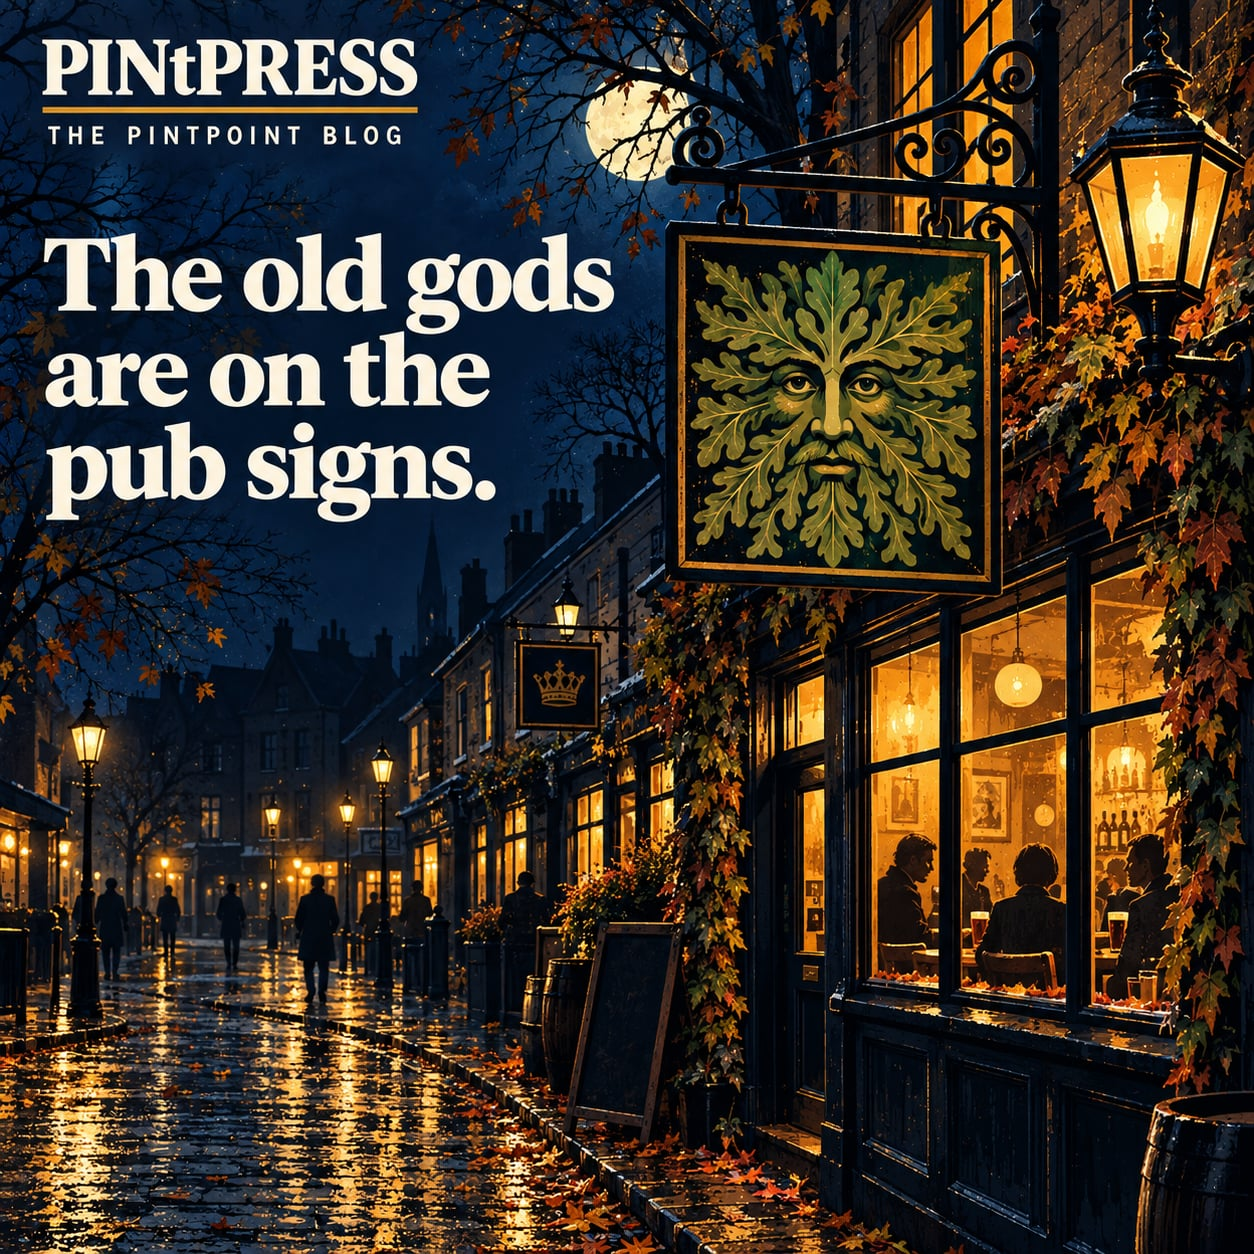
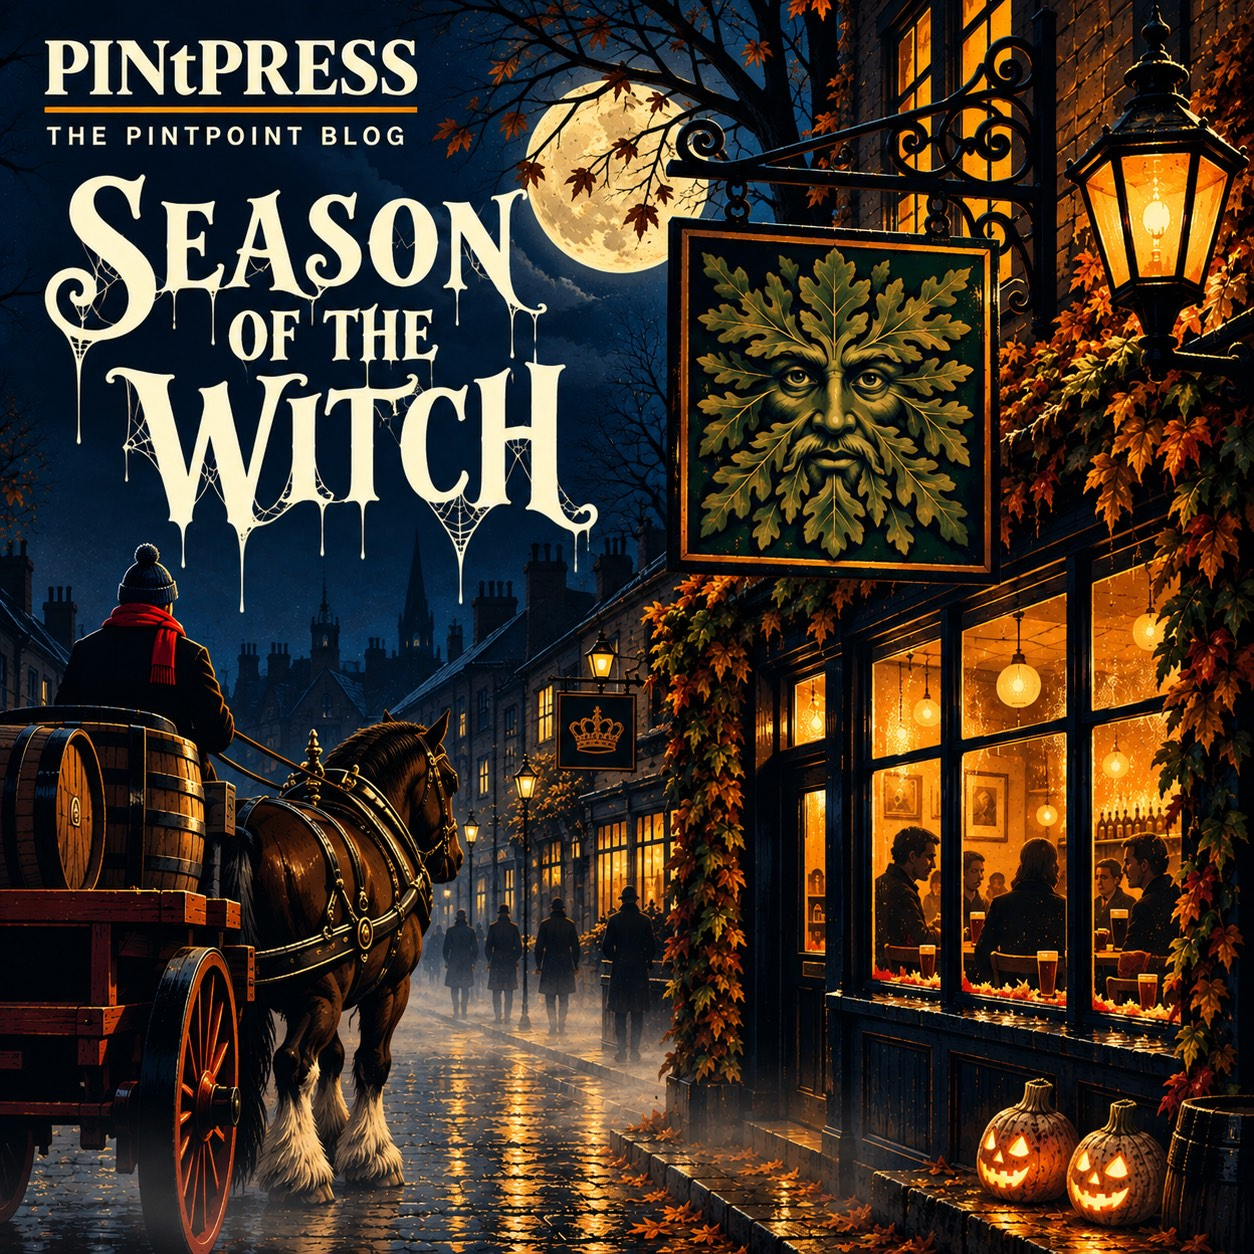
Season of the Witch cover: shipped, with two known trade-offs
Carries the new title, and it finally reads as 31 October rather than a
nice autumn evening: full moon, low mist on the cobbles, lit lanterns on
the step. Checked the horror typeface at 150px and it stays legible, so
the dripping face is not costing anything at thumbnail size.

Two deviations accepted rather than chased further, both known:

1. THE LANTERNS ARE PUMPKINS, NOT TURNIPS. Zoomed in to be sure: round,
   ribbed, pumpkin stalks. The essay's own jack-o'-lantern passage says
   the original was a turnip or a swede and that the pumpkin is what
   happened when the story reached America. So the cover leads with the
   cliche the piece then dismantles. Defensible as bait - the cover's job
   is to say Halloween, the essay's job is to complicate it - but it is a
   contradiction, and turnips would have been both truer and more
   distinctive.

2. THE DRAY IS STILL THERE. Same horse, driver, bobble hat and red scarf
   as the Christmas Ale cover, which publishes six days later and will
   sit beside it in the index. Three separate removal attempts have not
   shifted it.

Shipping because it is dramatically better than the live version on the
one axis that mattered, and the returns on further generations are
visibly diminishing - each round has traded one fault for another. Six
weeks remain before 31 October if either is worth another go.

Alt text updated in both places; it described the old cover.

1254x1254, 536KB.
[…]

diff --git a/blog/drafts/green-man-pub-signs.html b/blog/drafts/green-man-pub-signs.html
@@ -13,7 +13,7 @@
   <meta property="og:title" content="Season of the Witch" />
   <meta property="og:description" content="England's most famous pagan survival was invented in 1939, and it was named after a pub." />
   <meta property="og:image" content="https://pintpoint.co.uk/blog/images/green-man-pub-signs.jpg" />
-  <meta property="og:image:alt" content="PINtPRESS cover: a Green Man pub sign — a face made of oak leaves — hanging on an iron bracket above a wet cobbled street at night, lit pub window beside it, autumn leaves on the pavement." />
+  <meta property="og:image:alt" content="PINtPRESS cover: a Green Man pub sign — a face made of oak leaves — hanging above a misty cobbled street on Halloween night, full moon behind bare branches, lit pub window and carved lanterns glowing on the step." />
   <meta name="twitter:card" content="summary_large_image" />
   <link rel="preconnect" href="https://fonts.googleapis.com" />
   <link href="https://fonts.googleapis.com/css2?family=Inter:wght@400;500;600;700;800;900&display=swap" rel="stylesheet" />
@@ -76,7 +76,7 @@
     <h1>Season of the <em>Witch</em></h1>
     <p style="color:var(--muted);font-size:1.05rem;margin-top:-4px;margin-bottom:28px">England's most famous pagan survival was invented in 1939, and it was named after a pub.</p>
 
-    <img src="/blog/images/green-man-pub-signs.jpg" alt="PINtPRESS cover: a Green Man pub sign — a face made of oak leaves — hanging on an iron bracket above a wet cobbled street at night, lit pub window beside it, autumn leaves on the pavement." style="width:100%;border-radius:10px;margin-bottom:28px" />
+    <img src="/blog/images/green-man-pub-signs.jpg" alt="PINtPRESS cover: a Green Man pub sign — a face made of oak leaves — hanging above a misty cobbled street on Halloween night, full moon behind bare branches, lit pub window and carved lanterns glowing on the step." style="width:100%;border-radius:10px;margin-bottom:28px" />
 
     <p class="lede">There are nine Green Man pubs in our data, and every one of them is hanging out a face made of leaves. The foliate head is carved into English churches from the twelfth century onward — Exeter, Norwich, Southwell — peering out of the stonework with oak springing from its mouth. The standard reading is that he is a pagan god who survived the conversion, smuggled into the masonry by masons who had not quite let go of the old religion.</p>
 
